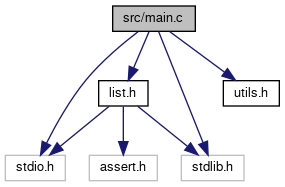
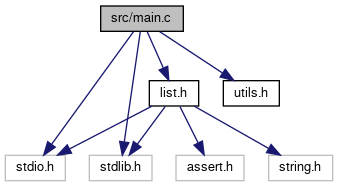
deploy: 060212c2b18686eda48ed1e52e5370a1bf771a20

diff --git a/list_8h_source.html b/list_8h_source.html
@@ -75,50 +75,57 @@ $(function() {
 <div class="line"><a name="l00004"></a><span class="lineno">    4</span>&#160;<span class="preprocessor">#include &lt;stdio.h&gt;</span></div>
 <div class="line"><a name="l00005"></a><span class="lineno">    5</span>&#160;<span class="preprocessor">#include &lt;assert.h&gt;</span></div>
 <div class="line"><a name="l00006"></a><span class="lineno">    6</span>&#160;<span class="preprocessor">#include &lt;stdlib.h&gt;</span></div>
-<div class="line"><a name="l00007"></a><span class="lineno">    7</span>&#160; </div>
+<div class="line"><a name="l00007"></a><span class="lineno">    7</span>&#160;<span class="preprocessor">#include &lt;string.h&gt;</span></div>
 <div class="line"><a name="l00008"></a><span class="lineno">    8</span>&#160; </div>
-<div class="line"><a name="l00009"></a><span class="lineno">    9</span>&#160; </div>
-<div class="line"><a name="l00010"></a><span class="lineno"><a class="line" href="struct__node.html">   10</a></span>&#160;<span class="keyword">typedef</span> <span class="keyword">struct </span><a class="code" href="struct__node.html">_node</a>{</div>
-<div class="line"><a name="l00011"></a><span class="lineno">   11</span>&#160;    <span class="keywordtype">int</span> data;</div>
-<div class="line"><a name="l00012"></a><span class="lineno">   12</span>&#160;    <span class="keyword">struct </span><a class="code" href="struct__node.html">_node</a>* ngb[2]; <span class="comment">// neighbor</span></div>
-<div class="line"><a name="l00013"></a><span class="lineno">   13</span>&#160;} <a class="code" href="struct__node.html">node</a>;</div>
-<div class="line"><a name="l00014"></a><span class="lineno">   14</span>&#160; </div>
-<div class="line"><a name="l00015"></a><span class="lineno"><a class="line" href="structlist.html">   15</a></span>&#160;<span class="keyword">typedef</span> <span class="keyword">struct </span>{</div>
-<div class="line"><a name="l00016"></a><span class="lineno">   16</span>&#160;    <a class="code" href="struct__node.html">node</a>* str;</div>
-<div class="line"><a name="l00017"></a><span class="lineno">   17</span>&#160;    <a class="code" href="struct__node.html">node</a>* end;</div>
-<div class="line"><a name="l00018"></a><span class="lineno">   18</span>&#160;} <a class="code" href="structlist.html">list</a>;</div>
-<div class="line"><a name="l00019"></a><span class="lineno">   19</span>&#160; </div>
-<div class="line"><a name="l00020"></a><span class="lineno">   20</span>&#160; </div>
-<div class="line"><a name="l00021"></a><span class="lineno">   21</span>&#160;<span class="comment">// Constructor and Descructor</span></div>
-<div class="line"><a name="l00022"></a><span class="lineno">   22</span>&#160;<a class="code" href="struct__node.html">node</a>* init_node(<span class="keywordtype">int</span> data);</div>
-<div class="line"><a name="l00023"></a><span class="lineno">   23</span>&#160;<a class="code" href="structlist.html">list</a> init_list(<span class="keywordtype">void</span>);</div>
-<div class="line"><a name="l00024"></a><span class="lineno">   24</span>&#160;<span class="keywordtype">void</span> kill_node(<a class="code" href="struct__node.html">node</a>*);</div>
-<div class="line"><a name="l00025"></a><span class="lineno">   25</span>&#160;<span class="keywordtype">void</span> kill_list(<a class="code" href="structlist.html">list</a>*);</div>
-<div class="line"><a name="l00026"></a><span class="lineno">   26</span>&#160; </div>
-<div class="line"><a name="l00027"></a><span class="lineno">   27</span>&#160;<span class="keywordtype">int</span> PrintList(<a class="code" href="structlist.html">list</a>);</div>
-<div class="line"><a name="l00028"></a><span class="lineno">   28</span>&#160; </div>
+<div class="line"><a name="l00009"></a><span class="lineno">    9</span>&#160;<span class="preprocessor">#define MAX_LINES 1010</span></div>
+<div class="line"><a name="l00010"></a><span class="lineno">   10</span>&#160;<span class="preprocessor">#define MAX_LEN_OPER_STR 100</span></div>
+<div class="line"><a name="l00011"></a><span class="lineno">   11</span>&#160; </div>
+<div class="line"><a name="l00012"></a><span class="lineno">   12</span>&#160; </div>
+<div class="line"><a name="l00013"></a><span class="lineno"><a class="line" href="struct__node.html">   13</a></span>&#160;<span class="keyword">typedef</span> <span class="keyword">struct </span><a class="code" href="struct__node.html">_node</a>{</div>
+<div class="line"><a name="l00014"></a><span class="lineno">   14</span>&#160;    <span class="keywordtype">int</span> data;</div>
+<div class="line"><a name="l00015"></a><span class="lineno">   15</span>&#160;    <span class="keyword">struct </span><a class="code" href="struct__node.html">_node</a>* ngb[2]; <span class="comment">// neighbor</span></div>
+<div class="line"><a name="l00016"></a><span class="lineno">   16</span>&#160;} <a class="code" href="struct__node.html">node</a>;</div>
+<div class="line"><a name="l00017"></a><span class="lineno">   17</span>&#160; </div>
+<div class="line"><a name="l00018"></a><span class="lineno"><a class="line" href="structlist.html">   18</a></span>&#160;<span class="keyword">typedef</span> <span class="keyword">struct </span>{</div>
+<div class="line"><a name="l00019"></a><span class="lineno">   19</span>&#160;    <a class="code" href="struct__node.html">node</a>* str;</div>
+<div class="line"><a name="l00020"></a><span class="lineno">   20</span>&#160;    <a class="code" href="struct__node.html">node</a>* end;</div>
+<div class="line"><a name="l00021"></a><span class="lineno">   21</span>&#160;} <a class="code" href="structlist.html">list</a>;</div>
+<div class="line"><a name="l00022"></a><span class="lineno">   22</span>&#160; </div>
+<div class="line"><a name="l00023"></a><span class="lineno">   23</span>&#160; </div>
+<div class="line"><a name="l00024"></a><span class="lineno">   24</span>&#160;<span class="comment">// Constructor and Descructor</span></div>
+<div class="line"><a name="l00025"></a><span class="lineno">   25</span>&#160;<a class="code" href="struct__node.html">node</a>* init_node(<span class="keywordtype">int</span> data);</div>
+<div class="line"><a name="l00026"></a><span class="lineno">   26</span>&#160;<a class="code" href="structlist.html">list</a> init_list(<span class="keywordtype">void</span>);</div>
+<div class="line"><a name="l00027"></a><span class="lineno">   27</span>&#160;<span class="keywordtype">void</span> kill_node(<a class="code" href="struct__node.html">node</a>*);</div>
+<div class="line"><a name="l00028"></a><span class="lineno">   28</span>&#160;<span class="keywordtype">void</span> kill_list(<a class="code" href="structlist.html">list</a>*);</div>
 <div class="line"><a name="l00029"></a><span class="lineno">   29</span>&#160; </div>
-<div class="line"><a name="l00035"></a><span class="lineno">   35</span>&#160;<span class="keywordtype">int</span> iter_read(<a class="code" href="struct__node.html">node</a>);</div>
-<div class="line"><a name="l00036"></a><span class="lineno">   36</span>&#160; </div>
-<div class="line"><a name="l00037"></a><span class="lineno">   37</span>&#160;<span class="comment">/* get the flag point to the node. This function assumes a node is linked to at least one node*/</span></div>
-<div class="line"><a name="l00038"></a><span class="lineno">   38</span>&#160;<span class="keywordtype">int</span> get_flag2node(<a class="code" href="struct__node.html">node</a>* terminal_node);</div>
+<div class="line"><a name="l00030"></a><span class="lineno">   30</span>&#160;<span class="keywordtype">int</span> PrintList(<a class="code" href="structlist.html">list</a>);</div>
+<div class="line"><a name="l00031"></a><span class="lineno">   31</span>&#160; </div>
+<div class="line"><a name="l00032"></a><span class="lineno">   32</span>&#160; </div>
+<div class="line"><a name="l00038"></a><span class="lineno">   38</span>&#160;<span class="keywordtype">int</span> iter_read(<a class="code" href="struct__node.html">node</a>);</div>
 <div class="line"><a name="l00039"></a><span class="lineno">   39</span>&#160; </div>
-<div class="line"><a name="l00040"></a><span class="lineno">   40</span>&#160;<span class="keywordtype">int</span> get_flag2null(<a class="code" href="struct__node.html">node</a>* terminal_node);</div>
-<div class="line"><a name="l00041"></a><span class="lineno">   41</span>&#160; </div>
-<div class="line"><a name="l00042"></a><span class="lineno">   42</span>&#160;<span class="comment">/* Return the direction to the dst. -1 for missing */</span></div>
-<div class="line"><a name="l00043"></a><span class="lineno">   43</span>&#160;<span class="keywordtype">int</span> get_flag2dst(<a class="code" href="struct__node.html">node</a>* src, <a class="code" href="struct__node.html">node</a>* dst);</div>
+<div class="line"><a name="l00040"></a><span class="lineno">   40</span>&#160;<span class="comment">/* get the flag point to the node. This function assumes a node is linked to at least one node*/</span></div>
+<div class="line"><a name="l00041"></a><span class="lineno">   41</span>&#160;<span class="keywordtype">int</span> get_flag2node(<a class="code" href="struct__node.html">node</a>* terminal_node);</div>
+<div class="line"><a name="l00042"></a><span class="lineno">   42</span>&#160; </div>
+<div class="line"><a name="l00043"></a><span class="lineno">   43</span>&#160;<span class="keywordtype">int</span> get_flag2null(<a class="code" href="struct__node.html">node</a>* terminal_node);</div>
 <div class="line"><a name="l00044"></a><span class="lineno">   44</span>&#160; </div>
-<div class="line"><a name="l00045"></a><span class="lineno">   45</span>&#160; </div>
-<div class="line"><a name="l00046"></a><span class="lineno">   46</span>&#160;<span class="comment">//Operations</span></div>
+<div class="line"><a name="l00045"></a><span class="lineno">   45</span>&#160;<span class="comment">/* Return the direction to the dst. -1 for missing */</span></div>
+<div class="line"><a name="l00046"></a><span class="lineno">   46</span>&#160;<span class="keywordtype">int</span> get_flag2dst(<a class="code" href="struct__node.html">node</a>* src, <a class="code" href="struct__node.html">node</a>* dst);</div>
 <div class="line"><a name="l00047"></a><span class="lineno">   47</span>&#160; </div>
-<div class="line"><a name="l00048"></a><span class="lineno">   48</span>&#160;<span class="comment">/* Return 1 if one element is pop; -1 for none*/</span></div>
-<div class="line"><a name="l00049"></a><span class="lineno">   49</span>&#160;<span class="keywordtype">int</span> leave(<a class="code" href="structlist.html">list</a>*);</div>
-<div class="line"><a name="l00050"></a><span class="lineno">   50</span>&#160;<span class="keywordtype">int</span> enter(<a class="code" href="structlist.html">list</a>*, <span class="keywordtype">int</span> log);</div>
-<div class="line"><a name="l00051"></a><span class="lineno">   51</span>&#160;<span class="keywordtype">void</span> migrate(<a class="code" href="structlist.html">list</a>* src, <a class="code" href="structlist.html">list</a>* dst);</div>
-<div class="line"><a name="l00052"></a><span class="lineno">   52</span>&#160; </div>
-<div class="line"><a name="l00053"></a><span class="lineno">   53</span>&#160;<span class="preprocessor">#endif</span></div>
-<div class="ttc" id="astruct__node_html"><div class="ttname"><a href="struct__node.html">_node</a></div><div class="ttdef"><b>Definition:</b> list.h:10</div></div>
-<div class="ttc" id="astructlist_html"><div class="ttname"><a href="structlist.html">list</a></div><div class="ttdef"><b>Definition:</b> list.h:15</div></div>
+<div class="line"><a name="l00048"></a><span class="lineno">   48</span>&#160; </div>
+<div class="line"><a name="l00049"></a><span class="lineno">   49</span>&#160;<span class="comment">//Operations</span></div>
+<div class="line"><a name="l00050"></a><span class="lineno">   50</span>&#160; </div>
+<div class="line"><a name="l00051"></a><span class="lineno">   51</span>&#160;<span class="comment">/* Return 1 if one element is pop; -1 for none*/</span></div>
+<div class="line"><a name="l00052"></a><span class="lineno">   52</span>&#160;<span class="keywordtype">int</span> leave(<a class="code" href="structlist.html">list</a>*);</div>
+<div class="line"><a name="l00053"></a><span class="lineno">   53</span>&#160;<span class="keywordtype">int</span> enter(<a class="code" href="structlist.html">list</a>*, <span class="keywordtype">int</span> log);</div>
+<div class="line"><a name="l00054"></a><span class="lineno">   54</span>&#160;<span class="keywordtype">void</span> migrate(<a class="code" href="structlist.html">list</a>* src, <a class="code" href="structlist.html">list</a>* dst);</div>
+<div class="line"><a name="l00055"></a><span class="lineno">   55</span>&#160; </div>
+<div class="line"><a name="l00056"></a><span class="lineno">   56</span>&#160; </div>
+<div class="line"><a name="l00057"></a><span class="lineno">   57</span>&#160;<span class="comment">// interface</span></div>
+<div class="line"><a name="l00058"></a><span class="lineno">   58</span>&#160;<span class="keywordtype">void</span> interact_scanf(<span class="keywordtype">void</span>);</div>
+<div class="line"><a name="l00059"></a><span class="lineno">   59</span>&#160; </div>
+<div class="line"><a name="l00060"></a><span class="lineno">   60</span>&#160;<span class="preprocessor">#endif</span></div>
+<div class="ttc" id="astruct__node_html"><div class="ttname"><a href="struct__node.html">_node</a></div><div class="ttdef"><b>Definition:</b> list.h:13</div></div>
+<div class="ttc" id="astructlist_html"><div class="ttname"><a href="structlist.html">list</a></div><div class="ttdef"><b>Definition:</b> list.h:18</div></div>
 </div><!-- fragment --></div><!-- contents -->
 <!-- start footer part -->
 <hr class="footer"/><address class="footer"><small>

diff --git a/main_8c.html b/main_8c.html
@@ -83,12 +83,13 @@ Include dependency graph for main.c:</div>
 <div class="dyncontent">
 <div class="center"><img src="main_8c__incl.png" border="0" usemap="#asrc_2main_8c" alt=""/></div>
 <map name="asrc_2main_8c" id="asrc_2main_8c">
-<area shape="rect" title="This project is for the DSA course 2021 at National Taiwan Unviersity. Homework 1 Problem 5." alt="" coords="113,5,195,32"/>
+<area shape="rect" title="This project is for the DSA course 2021 at National Taiwan Unviersity. Homework 1 Problem 5." alt="" coords="101,5,183,32"/>
 <area shape="rect" title=" " alt="" coords="5,155,65,181"/>
-<area shape="rect" title=" " alt="" coords="181,155,244,181"/>
+<area shape="rect" title=" " alt="" coords="89,155,152,181"/>
 <area shape="rect" href="utils_8h.html" title="General Utilities for C language." alt="" coords="223,80,279,107"/>
-<area shape="rect" href="list_8h_source.html" title=" " alt="" coords="99,80,148,107"/>
-<area shape="rect" title=" " alt="" coords="89,155,157,181"/>
+<area shape="rect" href="list_8h_source.html" title=" " alt="" coords="149,80,199,107"/>
+<area shape="rect" title=" " alt="" coords="176,155,244,181"/>
+<area shape="rect" title=" " alt="" coords="269,155,333,181"/>
 </map>
 </div>
 </div><table class="memberdecls">

diff --git a/test__list_8h_source.html b/test__list_8h_source.html
@@ -166,8 +166,8 @@ $(function() {
 <div class="line"><a name="l00095"></a><span class="lineno">   95</span>&#160;}</div>
 <div class="line"><a name="l00096"></a><span class="lineno">   96</span>&#160; </div>
 <div class="line"><a name="l00097"></a><span class="lineno">   97</span>&#160;<span class="preprocessor">#endif</span></div>
-<div class="ttc" id="astruct__node_html"><div class="ttname"><a href="struct__node.html">_node</a></div><div class="ttdef"><b>Definition:</b> list.h:10</div></div>
-<div class="ttc" id="astructlist_html"><div class="ttname"><a href="structlist.html">list</a></div><div class="ttdef"><b>Definition:</b> list.h:15</div></div>
+<div class="ttc" id="astruct__node_html"><div class="ttname"><a href="struct__node.html">_node</a></div><div class="ttdef"><b>Definition:</b> list.h:13</div></div>
+<div class="ttc" id="astructlist_html"><div class="ttname"><a href="structlist.html">list</a></div><div class="ttdef"><b>Definition:</b> list.h:18</div></div>
 </div><!-- fragment --></div><!-- contents -->
 <!-- start footer part -->
 <hr class="footer"/><address class="footer"><small>

diff --git a/index.html b/index.html
@@ -107,8 +107,8 @@ List</h2>
 <div class="line">    <a class="code" href="struct__node.html">node</a>* start</div>
 <div class="line">    <a class="code" href="struct__node.html">node</a>* end</div>
 <div class="line">}</div>
-<div class="ttc" id="astruct__node_html"><div class="ttname"><a href="struct__node.html">_node</a></div><div class="ttdef"><b>Definition:</b> list.h:10</div></div>
-<div class="ttc" id="astructlist_html"><div class="ttname"><a href="structlist.html">list</a></div><div class="ttdef"><b>Definition:</b> list.h:15</div></div>
+<div class="ttc" id="astruct__node_html"><div class="ttname"><a href="struct__node.html">_node</a></div><div class="ttdef"><b>Definition:</b> list.h:13</div></div>
+<div class="ttc" id="astructlist_html"><div class="ttname"><a href="structlist.html">list</a></div><div class="ttdef"><b>Definition:</b> list.h:18</div></div>
 </div><!-- fragment --><h2><a class="anchor" id="autotoc_md7"></a>
 Array of lists</h2>
 <div class="fragment"><div class="line">list[1000]</div>
